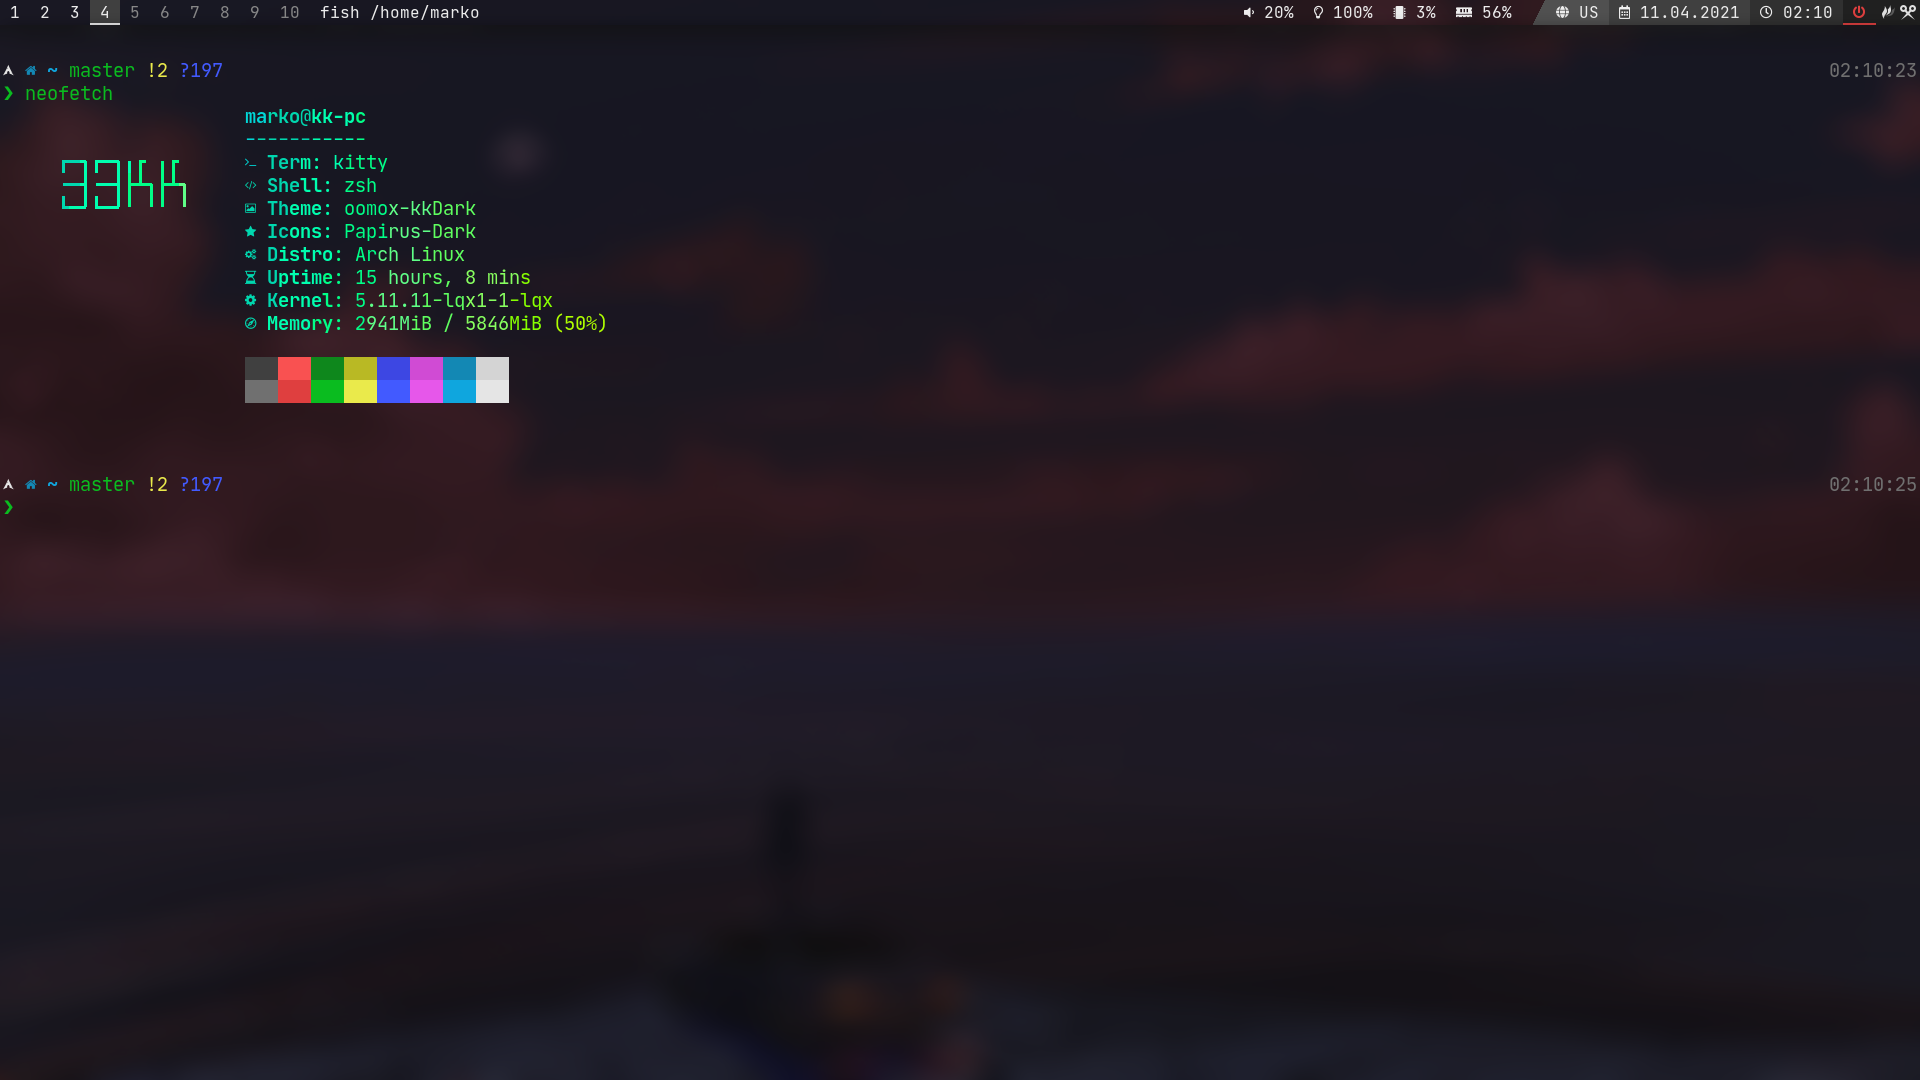
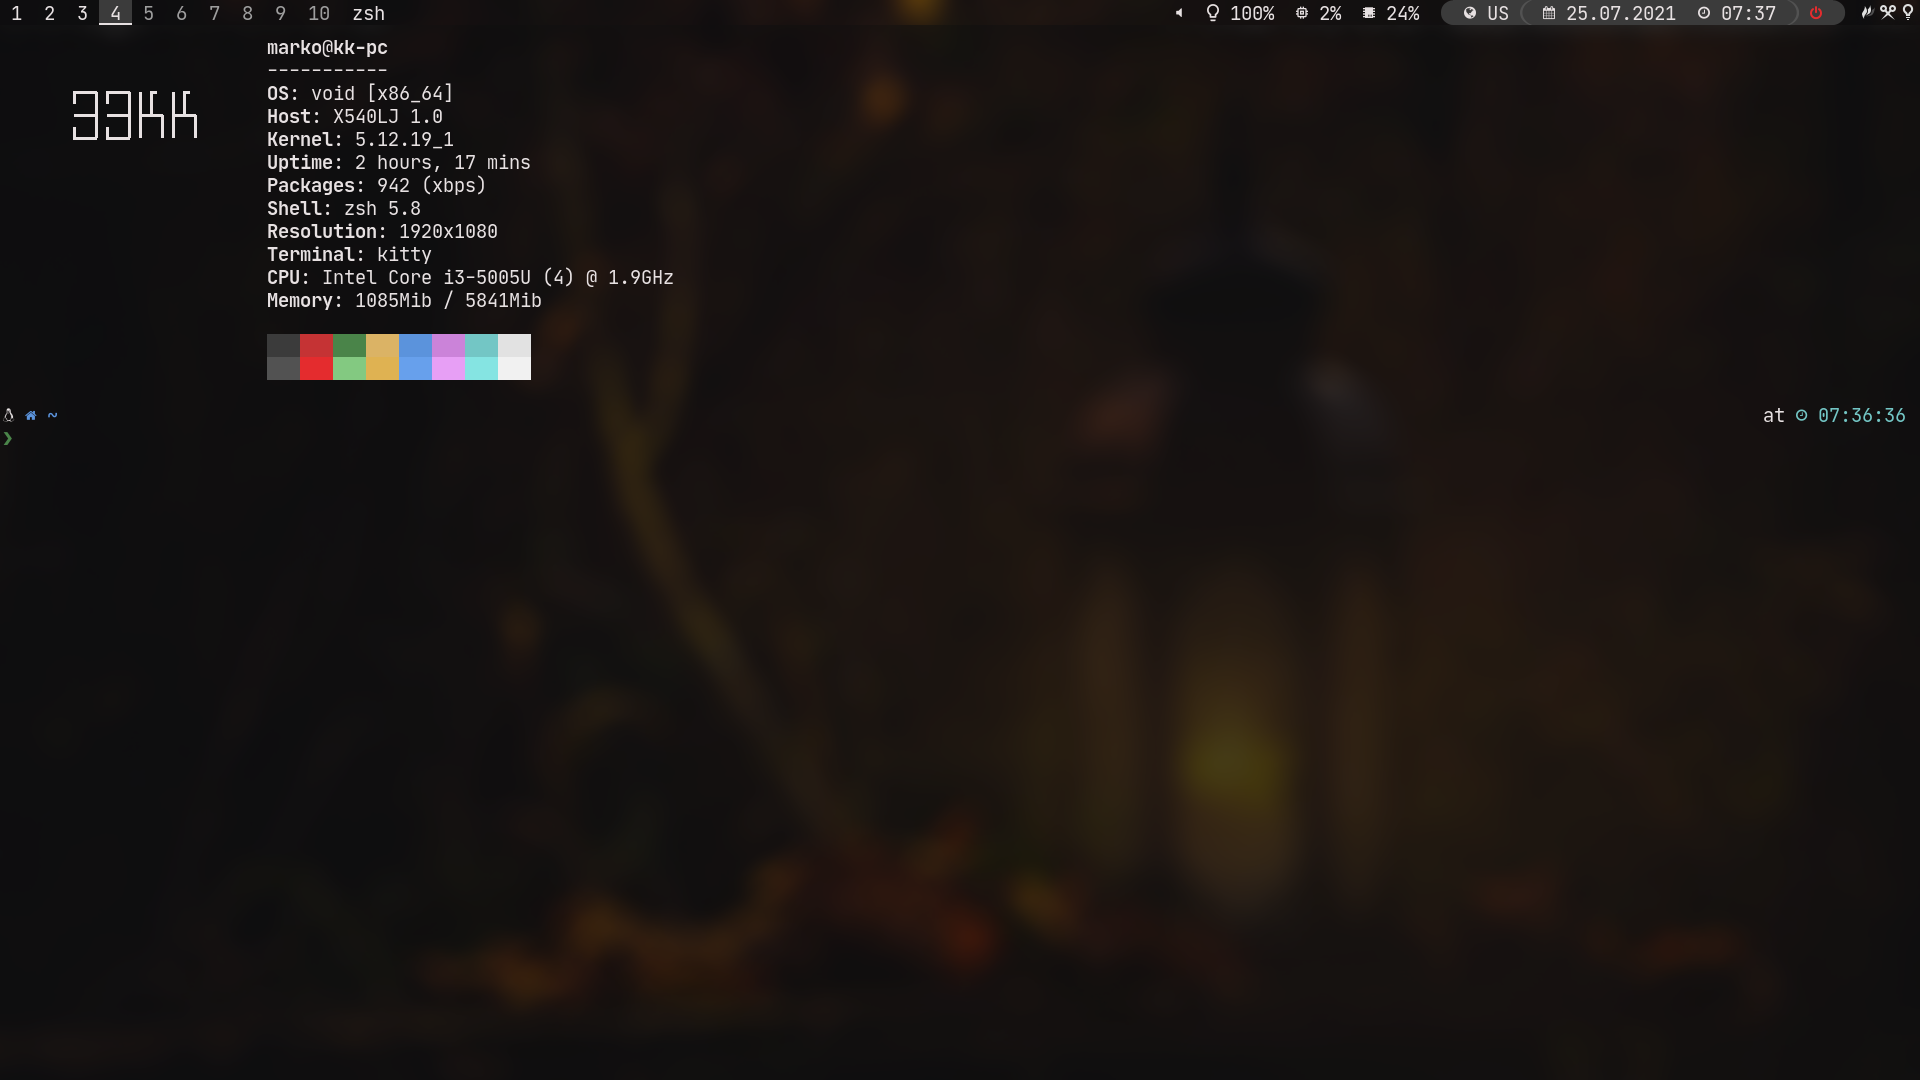
a

diff --git a/README.md b/README.md
@@ -2,53 +2,44 @@
 
 ## Contents
 
+- sx
+- dex
 - bspwm
 - sxhkd
-- polybar
-- kitty
-- dunst
-	- use rofi for context menu
-	- show icons
-- zsh
-	- zinit plugin manager
-	- powerlevel10k
-	- syntax highlighting
-	- completions
-	- suggestions
-	- zoxide
-	- sources ~/.profile
-- qt5ct
-	- kvantum
-	- Papirus-Dark icons
-- gtk, oomox
-	- kkDark theme
-	- Papirus-Dark icons
-- kvantum
-	- kkDark theme
 - picom
-	- blur
-- paru
-	- nvim as file manager
-- obs-studio
-	- system theme with dark icons
-- neofetch
+- polybar
+- dunst
+- rofi
+- i3lock-color
 - mpv
-	- anime4k
-- nvim
-	- lua config
-	- lsp
-	- feline statusline
-	- kkDark colorscheme
+- kitty
+- zsh
+- zoxide
+- neovim
+  - lua config
+- themes
+  - nvim
+  - kvantum
+  - gtk
+  - obs-studio
 
-## Packages
+## Setup
 
-```
-dex bspwm sxhkd polybar rofi dunst hsetroot kvantum-qt5 qt5ct betterlockscreen dolphin rofimoji kitty pamixer playerctl light lxqt-policykit numlockx picom-git redshift xorg-xsetroot zsh bat ripgrep exa neovim paru jq vlc mpv yad layan-cursor-theme-git papirus-icon-theme ttf-jetbrains-mono ttf-joypixels ttf-font-awesome nerd-fonts-jetbrains-mono nerd-fonts-fira-mono ttf-cascadia-code
+Void Linux:
+
+```bash
+sudo xbps-install -S git
+
+git clone --bare https://github.com/33kk/dotfiles $HOME/.dotfiles/git
+git --bare --git-dir=$HOME/.dotfiles/git --work-tree=$HOME checkout
+
+$HOME/.dotfiles/scripts/setup.sh
 ```
 
 ## Screenshots
 
-![Desktop](.dotfiles/screenshots/1.png)
-![Kitty terminal and Fish shell](.dotfiles/screenshots/2.png)
-![Neovim, Dunst, Zsh](.dotfiles/screenshots/3.png)
-![Dolphin, qt5ct, lxappearance](.dotfiles/screenshots/4.png)
+![1](.dotfiles/screenshots/1.png)
+![2](.dotfiles/screenshots/2.png)
+![3](.dotfiles/screenshots/3.png)
+![4](.dotfiles/screenshots/4.png)
+![5](.dotfiles/screenshots/5.png)
